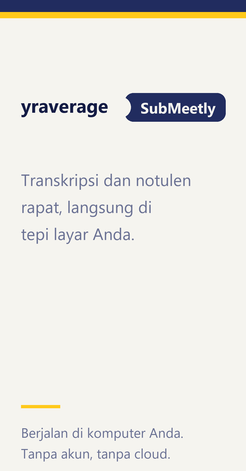
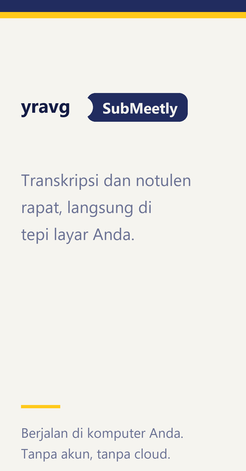
installer: wordmark yravg + SubMeetly, native host description yravgSubMeetly

Changed region(s): [[0.2276, 0.1783, 0.939, 0.2675]]

diff --git a/island/installer/make_art.py b/island/installer/make_art.py
@@ -1,7 +1,7 @@
 #!/usr/bin/env python3
 """Draws the installer's own art into installer/art/: the setup icon and the wizard images.
 
-Our wordmark only: "yraverage" plus the SubMeetly pill with its left notch (see
+Our wordmark only: "yravg" plus the SubMeetly pill with its left notch (see
 .brand-pill in src/sidepanel.css), in the Coretax paper tokens of src/tokens.css /
 src/minutes.css (navy #212C5F, gold #FFC91B, paper #F5F4EF). Nothing here comes from
 Oyenza Studio. Needs Pillow; the outputs are committed, run this only to change them.
@@ -63,8 +63,8 @@ def wizard(w, h, name):
     d.rectangle([0, 0, w * SS, int(8 * k)], fill=NAVY)
     d.rectangle([0, int(8 * k), w * SS, int(12 * k)], fill=GOLD)
     f = font("segoeuib.ttf", 12.5 * k)
-    d.text((14 * k, 70 * k), "yraverage", font=f, fill=INK, anchor="lm")
-    pw = d.textlength("yraverage", font=f)
+    d.text((14 * k, 70 * k), "yravg", font=f, fill=INK, anchor="lm")
+    pw = d.textlength("yravg", font=f)
     ph = 19 * k
     pill(d, 14 * k + pw + 11 * k, 70 * k - ph / 2 + 1.5 * k, ph, NAVY, "SubMeetly", PAPER, font("segoeuib.ttf", 10 * k))
     d.text((14 * k, 112 * k), "Transkripsi dan notulen\nrapat, langsung di\ntepi layar Anda.", font=font("segoeui.ttf", 11 * k), fill=MUTED, anchor="la", spacing=6 * k)
